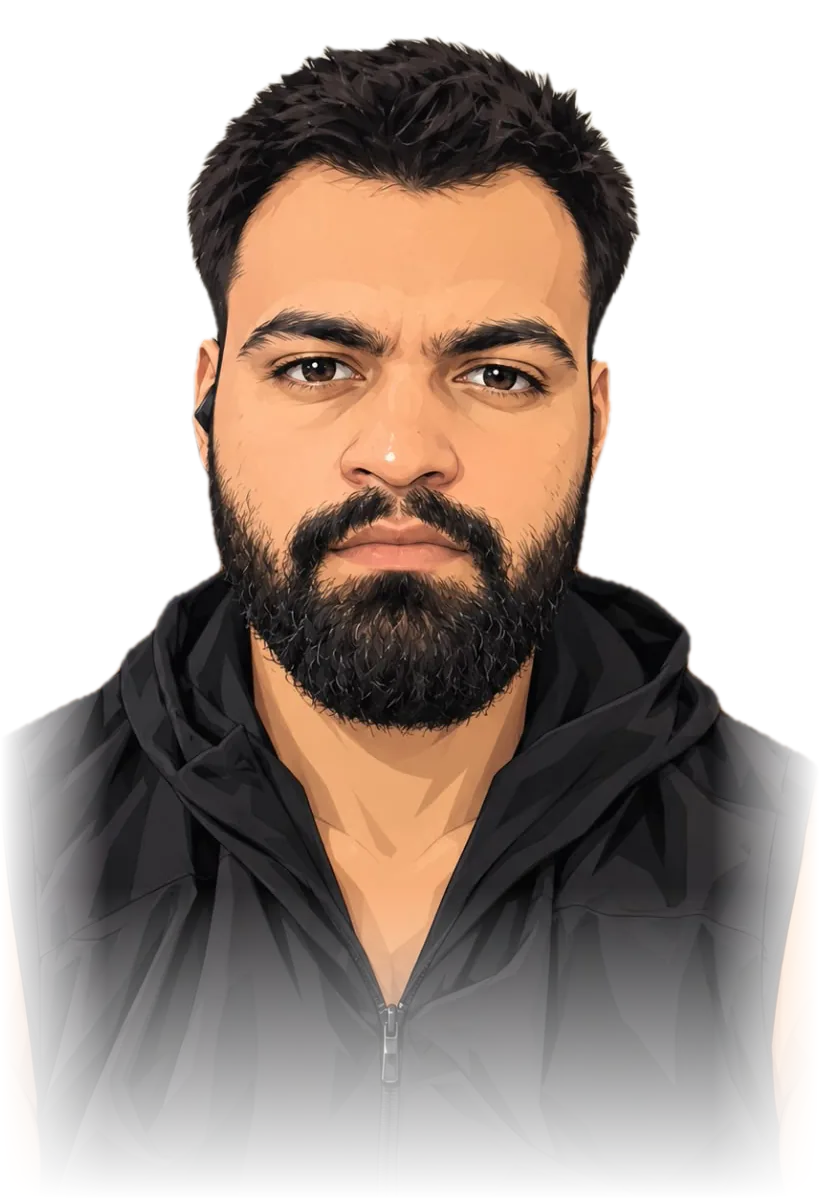
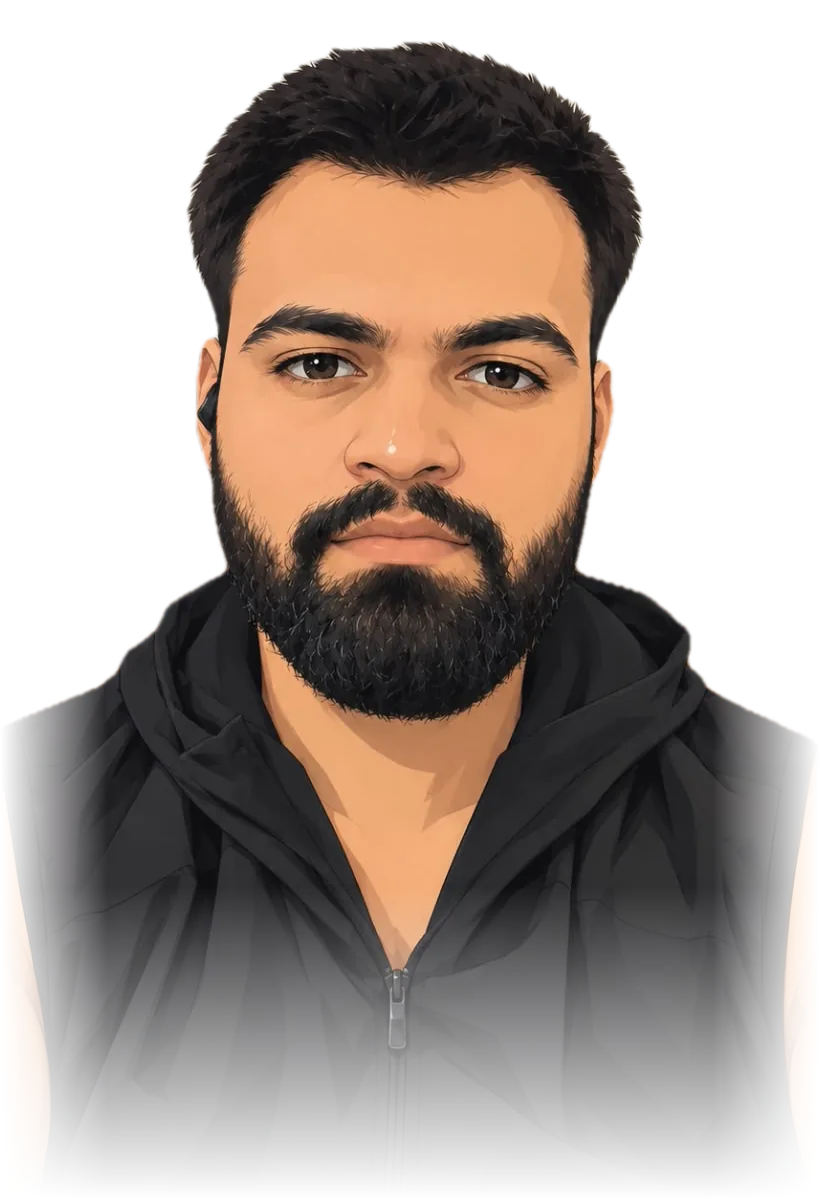
Hero: calmer portrait, and the name is never covered by it

diff --git a/chapters/Intro.tsx b/chapters/Intro.tsx
@@ -9,9 +9,10 @@ import { gsap, useGSAP } from "@/lib/motion/gsap";
 import { MQ, motion, slash } from "@/lib/motion/motion";
 
 /**
- * Chapter 01. The giant name sits behind the layered character, on a red sun disc. Entrance plays after the
- * opening ("site-ready"). Scroll: the two name lines slide apart and the character rises slightly (scrubbed).
- * Cursor: the portrait, the sun disc and the speed lines drift at different depths (multiplane camera).
+ * Chapter 01. Desktop: the giant name takes the left column (never covered), the portrait stands on the right in
+ * front of the red sun and speed lines. Phones: the name stacks across the top and the portrait sits below it.
+ * The entrance plays after the opening ("site-ready"). Scroll: the two name lines slide apart and the portrait rises
+ * slightly (scrubbed). Cursor: portrait, sun disc and speed lines drift at different depths (multiplane camera).
  * Reduced motion: a short fade, then everything is still ("manga mode"): no drift, no scrub.
  */
 export function Intro() {
@@ -121,11 +122,11 @@ export function Intro() {
       data-chapter-name={content.chapters[0].name}
       data-tone="ink"
       aria-labelledby="intro-title"
-      className="surface-ink relative isolate flex min-h-svh flex-col justify-end overflow-hidden"
+      className="hero surface-ink relative isolate flex min-h-svh flex-col justify-end overflow-hidden"
     >
-      {/* sun disc, its halftone print-offset, and the speed lines */}
-      <div aria-hidden="true" className="pointer-events-none absolute inset-0 -z-10 grid place-items-center">
-        <div data-pdisc className="relative size-[min(96vw,84svh)] translate-y-[-4%] will-change-transform">
+      {/* sun disc, its halftone print-offset, and the speed lines: centred on the portrait */}
+      <div aria-hidden="true" className="hero-disc-wrap pointer-events-none -z-10">
+        <div data-pdisc className="hero-disc will-change-transform">
           <div data-burst data-intro className="absolute -inset-[34%]">
             <SpeedLines className="size-full text-paper" />
           </div>
@@ -149,42 +150,52 @@ export function Intro() {
         </div>
       </div>
 
-      {/* giant name, behind the character */}
-      <div aria-hidden="true" className="pointer-events-none absolute inset-x-0 top-[18svh] -z-0 flex flex-col items-center md:top-[10svh]">
+      {/* giant name: its own space, so no letter is ever hidden */}
+      <div
+        aria-hidden="true"
+        className="pad-x pointer-events-none absolute inset-x-0 top-[max(6.9rem,14svh)] z-20 flex flex-col items-center md:top-[max(7.5rem,16svh)] md:z-0 md:items-start"
+      >
         <div data-split="l">
-          <div data-name data-intro className="t-giant text-paper">
+          <div data-name data-intro className="t-hero-name text-paper">
             {name.first}
           </div>
         </div>
-        <div data-split="r">
-          <div data-name data-intro className="t-giant text-paper">
+        <div data-split="r" className="md:ml-[4vw]">
+          <div data-name data-intro className="t-hero-name text-paper">
             {name.last}
           </div>
         </div>
       </div>
 
-      {/* the character: wrapper rises on scroll, inner figure does the entrance */}
-      <div data-rise className="pointer-events-none absolute inset-x-0 bottom-0 z-10 flex justify-center">
-        <div data-figure data-intro className="h-[74svh] md:h-[88svh]">
+      {/* the portrait: wrapper rises on scroll, inner figure does the entrance */}
+      <div data-rise className="pointer-events-none absolute inset-y-0 right-0 z-10 flex w-full items-end justify-center md:w-[58%]">
+        <div data-figure data-intro className="hero-fig">
           <div data-depth="1" className="h-full">
             <Image
               src="/portrait/jassi.webp"
-              alt={`Illustrated portrait of ${name.first} ${name.last}: a man with short dark hair and a full dark beard, in a black hooded jacket`}
+              alt={`Illustrated portrait of ${name.first} ${name.last}: a man with short dark hair and a full dark beard, calm and direct, in a black hooded jacket`}
               width={820}
               height={1200}
               priority
-              sizes="(min-width: 768px) 60svh, 52svh"
+              unoptimized
               className="h-full w-auto max-w-none"
             />
           </div>
         </div>
       </div>
 
-      {/* episode label */}
-      <div className="pad-x absolute top-[5.2rem] right-0 left-0 z-20 flex items-center justify-between md:top-24">
-        <div data-tag data-intro className="t-label flex items-center gap-3 text-paper">
+      {/* episode label; on phones the open-to-work signal sits on the same row to save height */}
+      <div className="pad-x absolute top-[5.2rem] right-0 left-0 z-30 flex items-center justify-between gap-3 md:top-24">
+        <div data-tag data-intro className="t-label flex shrink-0 items-center gap-3 whitespace-nowrap text-paper">
           <Jp className="text-base">{content.ornaments.episodes[0]}</Jp>
-          <span>episode 01 · {content.chapters[0].episodeTitle}</span>
+          <span>
+            <span className="md:hidden max-[380px]:hidden">ep 01</span>
+            <span className="hidden md:inline">episode 01 · {content.chapters[0].episodeTitle}</span>
+          </span>
+        </div>
+        <div data-tag data-intro className="t-label flex shrink-0 items-center gap-2 whitespace-nowrap text-cyan md:hidden">
+          <i aria-hidden="true" className="size-2 rounded-full bg-cyan" />
+          {content.target.availability}
         </div>
       </div>
 
@@ -199,14 +210,14 @@ export function Intro() {
       <div aria-hidden="true" className="pointer-events-none absolute inset-x-0 bottom-0 z-20 h-[52%] bg-linear-to-t from-ink via-ink/85 to-transparent md:h-[36%]" />
 
       {/* info: the 5-second recruiter test lives here */}
-      <div className="pad-x relative z-30 pb-[calc(var(--frame-inset)+2.2rem)]">
+      <div className="pad-x relative z-30 pb-[calc(var(--frame-inset)+1.6rem)] md:pb-[calc(var(--frame-inset)+2.2rem)]">
         <h1 id="intro-title" className="sr-only">
           {name.first} {name.last}: {content.target.role}
         </h1>
-        <p data-info data-intro className="max-w-xl text-[clamp(1.15rem,2.4vw,1.7rem)] leading-snug font-bold">
+        <p data-info data-intro className="max-w-xl text-[clamp(1.02rem,2.4vw,1.7rem)] leading-snug font-bold">
           {content.positioning.options[content.positioning.chosen]}
         </p>
-        <div data-info data-intro className="t-label mt-4 flex flex-wrap items-center gap-x-5 gap-y-2">
+        <div data-info data-intro className="t-label mt-3 hidden flex-wrap items-center gap-x-5 gap-y-2 md:mt-4 md:flex">
           <span className="pill text-cyan">
             <i aria-hidden="true" />
             {content.target.availability}
@@ -214,7 +225,7 @@ export function Intro() {
           <span>{content.contact.location}</span>
           <span>{content.target.domain}</span>
         </div>
-        <div data-info data-intro className="mt-5 flex flex-wrap gap-3">
+        <div data-info data-intro className="mt-4 flex flex-wrap gap-3 md:mt-5">
           <a href="#cases" className="btn btn-solid">
             view arcs
           </a>

diff --git a/app/globals.css b/app/globals.css
@@ -98,6 +98,19 @@
   text-transform: uppercase;
   letter-spacing: -0.01em;
 }
+/* the hero name: sized by the smaller of width and height so it never collides with the info block */
+.t-hero-name {
+  font-family: var(--ff-display), Impact, sans-serif;
+  font-size: clamp(3.6rem, min(22vw, 12svh), 8rem);
+  line-height: 0.84;
+  text-transform: uppercase;
+  letter-spacing: -0.01em;
+}
+@media (min-width: 768px) {
+  .t-hero-name {
+    font-size: clamp(5rem, min(17vw, 28svh), 22rem);
+  }
+}
 .t-h1,
 .t-h2,
 .t-h3 {
@@ -385,4 +398,51 @@ html[data-loader="skip"] .loader {
   background: color-mix(in srgb, var(--ink) 86%, transparent);
   -webkit-backdrop-filter: blur(10px);
   backdrop-filter: blur(10px);
+}
+
+/* ---------- hero composition ----------
+ * Phones: the portrait is sized to the space between the name and the info block, so the chin always lands just
+ * above the text, whatever the screen height (--hf is the portrait height; its chin sits 60% down the image).
+ * Desktop: the name takes the left column and the portrait stands in the right 58%, never overlapping the name. */
+.hero {
+  --hero-info: 10.5rem;
+  --hero-top: 16.5rem;
+  --hf: clamp(300px, calc((100svh - var(--hero-top) - var(--hero-info)) / 0.55), min(150vw, 640px));
+  --fig-bottom: calc(var(--hero-info) - 0.4 * var(--hf));
+}
+.hero-fig {
+  height: var(--hf);
+  margin-bottom: var(--fig-bottom);
+}
+.hero-disc-wrap {
+  position: absolute;
+  left: 0;
+  right: 0;
+  bottom: calc(var(--fig-bottom) + 0.64 * var(--hf));
+  display: flex;
+  justify-content: center;
+  translate: 0 50%;
+}
+.hero-disc {
+  position: relative;
+  width: min(88vw, calc(0.95 * var(--hf)));
+  aspect-ratio: 1;
+}
+@media (min-width: 768px) {
+  .hero-fig {
+    height: min(88svh, 80vw);
+    margin-bottom: 0;
+  }
+  .hero-disc-wrap {
+    left: auto;
+    top: 0;
+    bottom: 0;
+    width: 58%;
+    align-items: center;
+    translate: none;
+  }
+  .hero-disc {
+    width: min(52vw, 84svh);
+    translate: 0 -8%;
+  }
 }

diff --git a/components/Nav.tsx b/components/Nav.tsx
@@ -45,12 +45,12 @@ export function Nav() {
     >
       <nav
         aria-label="primary"
-        className="nav-bar t-label panel flex items-center justify-between gap-4 px-4 py-2 text-paper"
+        className="nav-bar t-label panel flex items-center justify-between gap-4 px-4 py-2 text-paper max-[380px]:px-3 max-[380px]:text-[0.7rem]"
       >
         <Link href="/#intro" className="hidden font-bold tracking-wider whitespace-nowrap sm:block">
           {content.name.first} {content.name.last}
         </Link>
-        <ul className="flex w-full items-center justify-between gap-3 sm:w-auto sm:justify-end md:gap-7">
+        <ul className="flex w-full items-center justify-between gap-2 whitespace-nowrap sm:w-auto sm:justify-end sm:gap-4 md:gap-7">
           {links.map((l) => (
             <li key={l.href}>
               <Link href={l.href} className="link-draw inline-block py-2">

diff --git a/docs/PLAN-jassi.md b/docs/PLAN-jassi.md
@@ -129,6 +129,7 @@ No GitHub or tech-stack material anywhere on the site. The site itself, built wi
 | 11 Oct 2026 | Added OG image, sitemap, robots, Person JSON-LD (public facts only). TODO slots filled with wording restated from the CV, marked for approval in `content.ts`. Lighthouse mobile (local production build): home 93 / 100 / 100 / 100, plain view 99 / 100 / 100 / 100. Home LCP 3.0 s on a first visit because of the opening sequence (target < 2.5 s); CLS 0. |
 | 11 Oct 2026 | **Deployed**: private repo `vickky122/jassi-portfolio`, live at https://jassi-sharma.vercel.app (Vercel Hobby, project `jassi-sharma`). Commit identity is the personal GitHub no-reply address with no co-author trailer; Vercel Authentication disabled so links open without login. Live checks: pages, share image, sitemap, JSON-LD all use the new address; the served resume PDF has no phone, address, father's name or date of birth. |
 | 12 Oct 2026 | Hero character changed: the hand-drawn SVG did not match his face, so the hero now uses the illustrated portrait Vikrant supplied as the close match (cut out, edges cleaned, faded), in front of the giant name on the red sun. Outfit in that image is a black hooded jacket, not the suit. |
+| 12 Oct 2026 | Hero reworked: (1) portrait swapped to the calmer reference (relaxed brows, less stern); (2) the giant name no longer sits behind the portrait: desktop = name left, portrait right; phones = name on top, portrait sized to fit above the text, open-to-work signal moved to the label row. |
 
 ## 11. Next action
 

diff --git a/README.md b/README.md
@@ -42,9 +42,12 @@ docs/           PLAN-jassi.md, anime-portfolio-plan-general.md
 - Only transform, opacity and clip-path are animated. Reduced motion is a calm "manga mode": no scrub, no parallax,
   no blink, no speed lines, no petals, no stacking; short fades only.
 - The hero portrait is `public/portrait/jassi.webp`: an illustrated portrait of Jassi (supplied by Vikrant as the
-  close match), cut out of its background with Apple Vision, edges cleaned, soft fade at the sides and bottom,
-  65 KB. To use a different portrait, replace that file (transparent WebP, 820 x 1200) or change the size in
-  `chapters/Intro.tsx`. The earlier hand-drawn SVG character was dropped because it did not look like him.
+  close match; the second, calmer version replaced a first one that read as stern), cut out of its background with
+  Apple Vision, edges cleaned, soft fade at the sides and bottom, about 55 KB, served as-is. To use a different
+  portrait, replace that file (transparent WebP, 820 x 1200; the chin is about 60% down the image, which the phone
+  layout relies on). The hero never covers the name: on desktop the name takes the left column and the portrait
+  stands on the right; on phones the portrait is sized to the space between the name and the text, so the chin
+  always lands just above it (see the `.hero` rules in `app/globals.css`).
 
 ## Deploy
 
